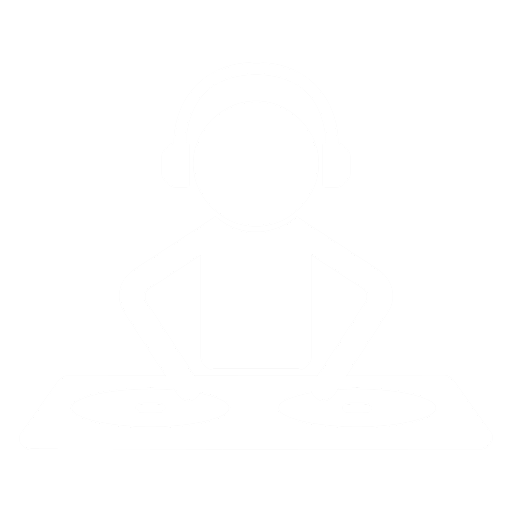
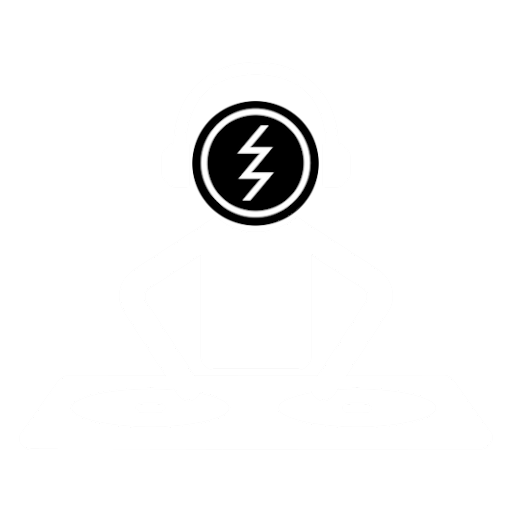
user profile

Changed region(s): [[0.375, 0.1875, 0.625, 0.4688]]

diff --git a/src/app/user/user-profile/user-profile.component.ts b/src/app/user/user-profile/user-profile.component.ts
@@ -7,6 +7,7 @@ import {Subscription} from 'rxjs';
 import {ActivatedRoute, Router} from '@angular/router';
 import {UserService} from '../../services/user/user.service';
 import {AlertService} from '../../services/alert/alert.service';
+import {DomSanitizer} from "@angular/platform-browser";
 
 @Component({
   selector: 'app-user-profile',
@@ -20,10 +21,12 @@ export class UserProfileComponent implements OnInit {
   message = '';
   userAvatar: any;
   imageToShow: any;
+  isImage = false;
   isImageLoading: any;
   tracks: Array<any>;
   favoriteTracksByUser: Track[] = [];
   userProfile: any;
+  username: string;
 
   constructor(private tokenStorage: TokenStorageService,
               private uploadService: UploadFileService,
@@ -31,13 +34,14 @@ export class UserProfileComponent implements OnInit {
               private router: Router,
               private alertService: AlertService,
               private userService: UserService,
+              private sanitizer: DomSanitizer,
               private trackService: TrackService) { }
 
   ngOnInit() {
     if (this.tokenStorage.getToken()) {
       this.currentUser = this.tokenStorage.getUser();
       this.getUserProfile();
-      this.getImageFromService();
+      this.getImageFromService(this.username);
       this.getLastAddedTracksByUsername(this.userProfile.username, 5);
       this.getAllFavoritesTracksByUser(this.userProfile.username);
     } else {
@@ -48,9 +52,9 @@ export class UserProfileComponent implements OnInit {
 
   getUserProfile() {
     this.sub = this.route.params.subscribe(params => {
-      const username = params['username'];
-      if (username) {
-        this.userService.getUserByUsername(username).subscribe(
+      this.username = params['username'];
+      if (this.username) {
+        this.userService.getUserByUsername(this.username).subscribe(
           response => {
             this.userProfile = response;
           },
@@ -62,25 +66,22 @@ export class UserProfileComponent implements OnInit {
     });
   }
 
-  createImageFromBlob(image: Blob) {
+  getImageFromService(username: string) {
     const reader = new FileReader();
-    reader.addEventListener('load', () => {
-      this.imageToShow = reader.result;
-    }, false);
-
-    if (image) {
-      reader.readAsDataURL(image);
-    }
-  }
-
-  getImageFromService() {
-    this.isImageLoading = true;
-    this.uploadService.getFile(this.currentUser.username).subscribe(data => {
-      this.createImageFromBlob(data);
-    }, error => {
-      this.isImageLoading = false;
-      console.log(error);
-    });
+    this.uploadService.getFile(username).subscribe(
+      data => {
+        reader.addEventListener('load', () => {
+          this.imageToShow = this.sanitizer.bypassSecurityTrustResourceUrl(reader.result as string);
+        }, false);
+        if (data) {
+          if (data.size > 0) {
+            this.isImage = true;
+            reader.readAsDataURL(data);
+          }
+        }
+      }, err => {
+        console.log(err);
+      });
   }
 
   public getLastAddedTracksByUsername(username: string, numberOfTracks: number) {

diff --git a/src/app/sidebar/sidebar-right/sidebar-right.component.html b/src/app/sidebar/sidebar-right/sidebar-right.component.html
@@ -1,7 +1,7 @@
 <div>
 
   <!-- region SOCIETY -->
-  <div class="panel panel-default" style="background-color: #181818">
+  <div class="panel panel-default panel-window">
     <div class="panel-heading sidebar-window-background">
       <h3 class="sidebar-window-title">SPOŁECZNOŚĆ</h3>
     </div>
@@ -10,13 +10,14 @@
       </div>
 
       <!-- Your like button code -->
-      <div class="fb-like" data-href="https://www.facebook.com/OskarroDJ/" data-width="" data-layout="button_count" data-action="like" data-size="large" data-share="true"></div>
+      <div class="fb-like" data-href="https://www.facebook.com/OskarroDJ/"
+           data-width="" data-layout="button_count" data-action="like" data-size="large" data-share="true"></div>
     </div>
   </div>
   <!-- endregion -->
 
   <!-- region OSKARRO -->
-  <div class="panel panel-default" style="background-color: #181818">
+  <div class="panel panel-default panel-window">
     <div class="panel-heading sidebar-window-background">
       <h3 class="sidebar-window-title">DEEJAY OSKARRO</h3>
     </div>
@@ -41,7 +42,7 @@
   <!-- endregion -->
 
   <!-- region FEATURED -->
-  <div class="panel panel-default" style="background-color: #181818">
+  <div class="panel panel-default panel-window">
     <div class="panel-heading sidebar-window-background">
       <h3 class="sidebar-window-title">POLECANE</h3>
     </div>
@@ -55,13 +56,13 @@
   <!-- endregion -->
 
   <!-- region PARTNERS -->
-  <div class="panel panel-default" style="background-color: #181818">
+  <div class="panel panel-default panel-window">
     <div class="panel-heading sidebar-window-background">
       <h3 class="sidebar-window-title">PARTNERZY</h3>
     </div>
-    <div class="bg-grey text-center panel-body" >
-      <img src="../../../assets/img/reklama_logo.jpg" alt="reklama" style="max-width:100%; max-height:100%; margin-bottom: 5px">
-      <img src="../../../assets/img/reklama_logo.jpg" alt="reklama" style="max-width:100%; max-height:100%;">
+    <div class="bg-grey text-center panel-body">
+<!--      <img src="/assets/img/reklama_logo.jpg" alt="reklama">-->
+      <img src="/assets/img/player_oskarro.jpg" alt="reklama">
     </div>
   </div>
   <!-- endregion -->

diff --git a/src/app/home/home.component.html b/src/app/home/home.component.html
@@ -13,15 +13,11 @@
 
       <div class="card-image">
         <img *ngIf="this.imagesToShow.get(post.id); else noCoverFound"
-             [src]="this.imagesToShow.get(post.id) | byPassSecurity" alt="Zdjęcie do utworu {{post.title}}">
+             [src]="this.imagesToShow.get(post.id) | byPassSecurity" alt="Zdjęcie do artykulu {{post.title}}">
         <ng-template #noCoverFound>
-          <img id="profile-img" width="430"
-               src="/assets/img/reklama_logo.jpg"
-               alt="Domyślne zdjęcie do utworu {{post.title}}">
+          <img id="profile-img" width="430" src="/assets/img/reklama_logo.jpg" alt="Zdjęcie artykułu {{post.title}}">
         </ng-template>
       </div>
-
-
 
       <div class="card-body text-center">
         <hr style="width:70%; left: 15%;">
@@ -30,10 +26,10 @@
           Przeczytaj całość
         </button>
       </div>
-        <p class="card-text"><small class="text-muted">Dodane {{post.createdAt}}</small></p>
+        <p class="card-text">
+          <small class="text-muted">Data dodania: {{post.createdAt.substring(0, post.createdAt.indexOf('T'))}}</small>
+        </p>
     </div>
   </div>
-
-
 </div>
 

diff --git a/src/app/profile/profile.component.html b/src/app/profile/profile.component.html
@@ -9,15 +9,9 @@
             <div class="card-title mb-4">
               <div class="d-flex justify-content-start">
                 <div class="image-container" style="margin-right: 1rem">
-                  <img [src]="imageToShow" width="150" height="150"
-                       alt="Avatar user"
-                       style="color: white"
-                       *ngIf="isImage; else noImageFound">
+                  <img [src]="imageToShow" *ngIf="isImage; else noImageFound" class="image-profile" alt="Avatar user">
                   <ng-template #noImageFound>
-                    <img id="profile-imgs" width="150" height="150"
-                         src="/assets/img/user_avatar.png"
-                         class="profile-img-card"
-                         alt="Avatar default"/>
+                    <img class="image-profile" src="/assets/img/user_avatar.png" alt="Avatar default">
                   </ng-template>
                 </div>
 

diff --git a/src/app/user/user-profile/user-profile.component.html b/src/app/user/user-profile/user-profile.component.html
@@ -9,13 +9,9 @@
             <div class="card-title mb-4">
               <div class="d-flex justify-content-start">
                 <div class="image-container">
-                  <img [src]="imageToShow" width="150" height="150"
-                       alt="Place image title"
-                       *ngIf="imageToShow; else noImageFound">
+                  <img *ngIf="isImage; else noImageFound" [src]="imageToShow" class="image-profile" alt="Avatar image">
                   <ng-template #noImageFound>
-                    <img id="profile-imgs" width="100" height="100"
-                         src="//ssl.gstatic.com/accounts/ui/avatar_2x.png"
-                         class="profile-img-card"/>
+                    <img class="image-profile" src="/assets/img/user_avatar.png" alt="Default user avatar">
                   </ng-template>
                 </div>
                 <div class="userData ml-3">

diff --git a/src/app/profile/profile.component.css b/src/app/profile/profile.component.css
@@ -6,13 +6,12 @@ body{
   position: relative;
 }
 
-.image {
-  opacity: 1;
-  display: block;
-  width: 100%;
-  height: auto;
-  transition: .5s ease;
-  backface-visibility: hidden;
+.image-profile {
+  object-fit:contain;
+  width:150px;
+  height:150px;
+  color: white;
+  border: solid 1px #CCC
 }
 
 .middle {

diff --git a/src/app/sidebar/sidebar-right/sidebar-right.component.css b/src/app/sidebar/sidebar-right/sidebar-right.component.css
@@ -33,3 +33,7 @@
   color: rebeccapurple;
   border: solid 1px white;
 }
+
+.panel-window {
+  background-color: #181818;
+}

diff --git a/src/app/user/user-profile/user-profile.component.scss b/src/app/user/user-profile/user-profile.component.scss
@@ -1,0 +1,6 @@
+.image-profile {
+  object-fit:contain;
+  width:150px;
+  height:150px;
+  border: solid 1px #CCC
+}
